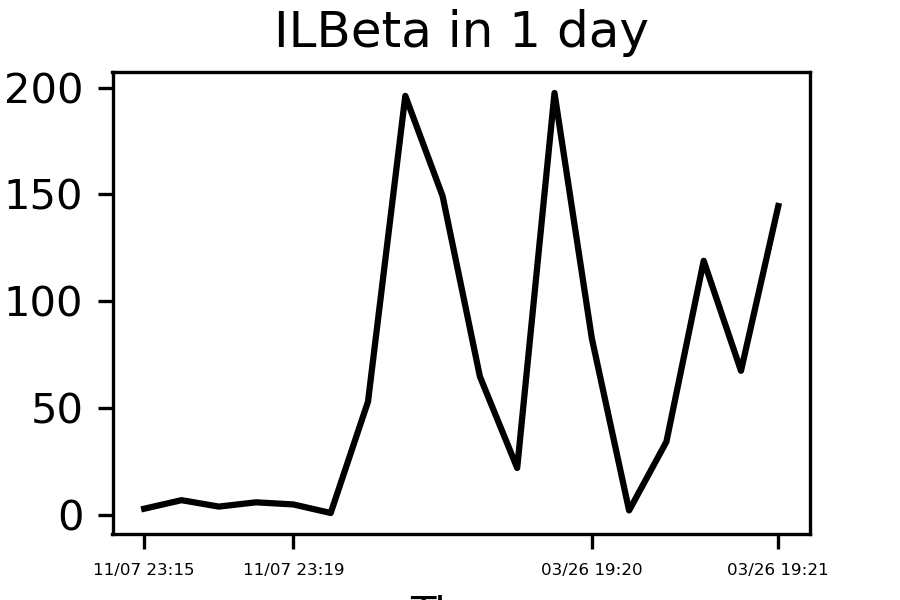
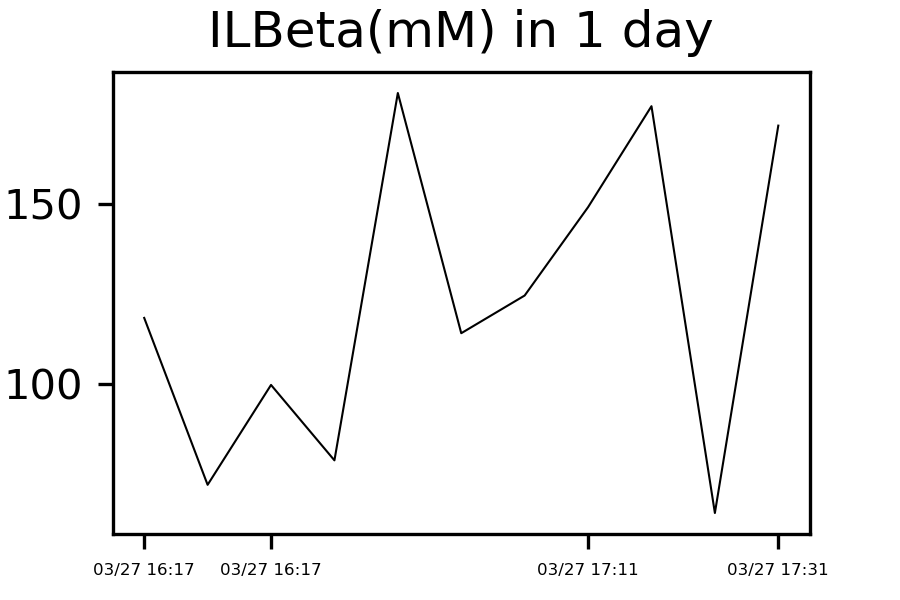
Version 1.9 Require final testing + updating

diff --git a/DataBase.py b/DataBase.py
@@ -1,7 +1,8 @@
 import copy
 
+from Configuration import meanConfiguration
 from datetime import datetime, timedelta
-
+from statistics import mean
 class DataBase():
     def __init__(self, directory="./Data"):
         '''
@@ -47,6 +48,7 @@ class DataBase():
         return self.maximumStorage
     
     def getLatest(self):
+        self.truncate()
         result={}
         result["Na"]=self.getLatestData(self.Na)
         result["K"]=self.getLatestData(self.K)
@@ -218,7 +220,34 @@ class DataBase():
         oldTime=datetime.strptime(oldTime, "%Y/%m/%d %H:%M:%S")
         newTime=datetime.strptime(newTime, "%Y/%m/%d %H:%M:%S")
         if difference:
-            maxTimeDifference=timedelta(hours=24*difference)
+            maxTimeDifference=timedelta(hours=round(24*difference))
         else:
             maxTimeDifference=timedelta(hours=24*self.maximumStorage)
         return (newTime-oldTime>maxTimeDifference)
+    
+    def checkStatus(self):
+        '''
+            Check whether the health status is in danger for each
+        data type
+        '''
+        try:
+            self.checkTruncatedMean(self.Na, meanConfiguration["Na"])
+            self.checkTruncatedMean(self.K, meanConfiguration["K"])
+            self.checkTruncatedMean(self.Glucose, meanConfiguration["Glucose"])
+            self.checkTruncatedMean(self.CRP, meanConfiguration["CRP"])
+            self.checkTruncatedMean(self.ILBeta, meanConfiguration["ILBeta"])
+            return False
+        except:
+            return True
+
+    def checkTruncatedMean(self, dataset, theoreticalMean, difference=1/144):
+        '''
+            Check whether the truncated dataset has a higher mean
+        than theoretical value, otherwise raise error
+
+            By default, the time difference checked is 10min
+        '''
+        data=self.truncateData(dataset, difference)
+        actualMean=mean(list(data.values()))
+        if actualMean>theoreticalMean:
+            raise ValueError

diff --git a/UIController.py b/UIController.py
@@ -1,7 +1,6 @@
 import sys
 
 from BluetoothServe import BluetoothServe
-from Configuration import pageConfiguration
 from DataBase import DataBase
 from PyQt5.QtWidgets import*
 from PyQt5.QtCore import QTimer
@@ -17,7 +16,8 @@ class UIController:
         self.bluetooth=BluetoothServe()
         self.application=QApplication([])
         self.window=Window()
-        self.timer=QTimer(self.window)
+        self.readTimer=QTimer(self.window)
+        self.writeTimer=QTimer(self.window)
         self.startPage=StartPage()
         self.mainPage=MainPage()
         self.plotPage=PlotPage()
@@ -87,16 +87,22 @@ class UIController:
         '''
             Connect to the arduino via bluetooth
 
-            If successfully connecting to the sensor,
-        start collecting data, otherwise report error
-        to the user 
+            After connecting to the arduino:
+            (1) Read data from arduino every 1s
+            (2) Check the status of the user every 10min
         '''
         self.bluetooth.connect()
         if self.bluetooth.status==True:
-            self.timer.timeout.connect(self.updateMainPage)
-            self.timer.start(1000)
+            self.readTimer.timeout.connect(self.updateMainPage)
+            self.readTimer.start(1000)
+            self.writeTimer.timeout.connect(self.fireAlarm)
+            self.writeTimer.start(10000)
         else:
             self.showError("Can't connect to the sensor. Please try again.")
+    
+    def fireAlarm(self):
+        if self.dataBase.checkStatus():
+            self.bluetooth.write()
 
     def getMaximumStorage(self, title, description, error):
         '''

diff --git a/UI/PlotPage.py b/UI/PlotPage.py
@@ -1,8 +1,10 @@
+from types import TracebackType
 import numpy as np
 import matplotlib.pyplot as plt
 
 from Configuration import pageConfiguration, radioButtonConfiguration
 from PyQt5.QtWidgets import*
+from PyQt5.QtCore import*
 from UI.WindowHelper import*
 
 class PlotPage(QWidget):
@@ -79,8 +81,7 @@ class PlotPage(QWidget):
         layout=QGridLayout()
         layout.addWidget(QLabel(""), 0, 0)
         layout.addWidget(QLabel(""), 1, 0)
-        layout.addLayout(middleLayout, 2, 0, 6, 0)
-        layout.addWidget(QLabel(""), 7, 0)
+        layout.addLayout(middleLayout, 2, 0, 7, 0)
         layout.addWidget(QLabel(""), 8, 0)
         layout.addLayout(radioButtonLayout, 9, 0)
         layout.addWidget(QLabel(""), 10, 0)
@@ -150,10 +151,8 @@ class PlotPage(QWidget):
         timeTick=[timeLine[i] for i in percentile]
 
         figure, axis=plt.subplots(figsize=(3, 2), dpi=300)
-        axis.plot(value, color="black")
-        axis.set_title(name+" in "+scale)
-        axis.set_ylabel(name+"("+unit+")")
-        axis.set_xlabel("Time")
+        axis.plot(value, color="black", linewidth=0.5)
+        axis.set_title(name+"("+unit+")"+" in "+scale)
         axis.set_xticks(percentile)
         axis.set_xticklabels(timeTick, fontsize=4)
 

diff --git a/BluetoothTest.py b/BluetoothTest.py
@@ -7,8 +7,10 @@ bluetooth=serial.Serial(port, 9600)#Start communications with the bluetooth unit
 print("Connected")
 bluetooth.flushInput() #This gives the bluetooth a little kick
 
-for i in range(100):
+for i in range(10):
     print(bluetooth.readline())
+    bluetooth.write(b"H")
+    time.sleep(1)
 
 bluetooth.close() #Otherwise the connection will remain open until a timeout which ties up the /dev/thingamabob
 print("Done")

diff --git a/Configuration.py b/Configuration.py
@@ -29,3 +29,12 @@ bluetoothConfiguration={
     "baud rate":9600,
     "interval":60000
 }
+
+#Basic configuration of firing alarm
+meanConfiguration={
+    "Na":75,
+    "K":15.5,
+    "Glucose":100,
+    "CRP":5,
+    "ILBeta":100,
+}

diff --git a/ManulTest.py b/ManulTest.py
@@ -1,2 +1,5 @@
-test="A"
-print(int(test))
+from DataBase import DataBase
+
+
+dataset=DataBase()
+dataset.checkTruncatedMean(dataset.Na, 0)
